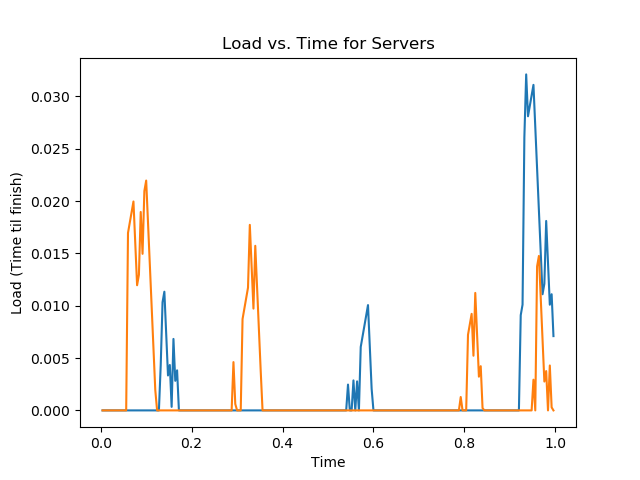
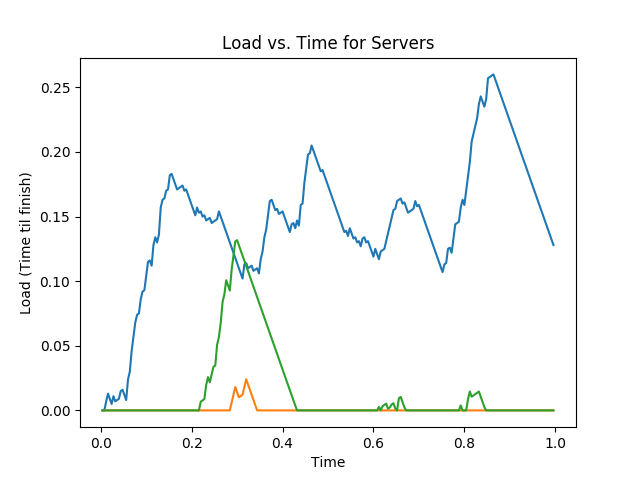
Started powersofx

diff --git a/main.py b/main.py
@@ -11,14 +11,14 @@ processing_time = 0.005 # time per packet
 '''
 
 # Packet generation variables
-num_flows = 8
+num_flows = 30
 mean_flow_size = 10
 flow_size_stdev = 2
 max_flow_duration = 0.05
 # Num clients, load balancers, servers
-num_clients = 4
+num_clients = 20
 num_load_balancers = 2
-num_servers = 2
+num_servers = 3
 # Server processing time, time per packet
 processing_time = 0.005
 
@@ -34,7 +34,7 @@ processing_time = 0.01 # time per packet
 '''
 
 
-assignment_methods = ["RandomAssignment", "ConsistentHashing", "PowersOfTwoNoMemory", "PowersOfTwoWithMemory"]
+assignment_methods = ["RandomAssignment", "ConsistentHashing", "PowersOfTwoNoMemory", "PowersOfTwoWithMemory", "PowersOfXWithMemory"]
 
 #class defining a client/host
 class Client:
@@ -47,14 +47,14 @@ class LoadBalancer:
 		self.id = address
 		self.connection_table = {}
 
-	def assign_server_random(self, packet, _):
+	def assign_server_random(self, packet, _1, _2):
 		packet_id = packet.clientid
 		return random.randint(0, num_servers - 1)
 
-	def assign_server_hashing(self, packet, _):
+	def assign_server_hashing(self, packet, _1, _2):
 		return hash(str(packet.clientid)) % num_servers
 
-	def assign_server_power_of_2_choices_no_memory(self, packet, servers):
+	def assign_server_power_of_2_choices_no_memory(self, packet, servers, _):
 
 		#pick 2 servers randomly
 		first_query_server = random.randint(0, num_servers - 1)
@@ -73,7 +73,7 @@ class LoadBalancer:
 			return first_query_server
 		return second_query_server
 
-	def assign_server_power_of_2_choices_with_memory(self, packet, servers):
+	def assign_server_power_of_2_choices_with_memory(self, packet, servers, _):
 		#check this is a new flow by checking client id 
 		if packet.clientid in self.connection_table:
 			return self.connection_table[packet.clientid]
@@ -96,6 +96,27 @@ class LoadBalancer:
 			return first_query_server
 		self.connection_table[packet.clientid] = second_query_server
 		return second_query_server
+
+
+
+	def assign_server_power_of_x_choices_with_memory(self, packet, servers, x):
+		#check this is a new flow by checking client id 
+		if packet.clientid in self.connection_table:
+			return self.connection_table[packet.clientid]
+
+		if x > num_servers:
+			print("Number of servers too low for power of " + str(x) + " choices.")
+			return
+
+		#pick x servers randomly
+		server_nums = random.sample(range(0, num_servers), x)
+		loads = []
+		for num in server_nums:
+			loads.append(servers[num].get_load(packet.time_sent))
+
+		min_load_server = loads.index(min(loads))
+		self.connection_table[packet.clientid] = min_load_server
+		return min_load_server
 
 	def __repr__(self):
 		return "Load Balancer id: " + str(self.id)	
@@ -229,10 +250,11 @@ def run_simulation(assignment_method):
 			"RandomAssignment": load_balancer.assign_server_random,  # No per-flow consistency :(
 			"ConsistentHashing": load_balancer.assign_server_hashing, # Per-flow consistency :)
 			"PowersOfTwoNoMemory": load_balancer.assign_server_power_of_2_choices_no_memory, # No Per-flow consistency :( + Congestion control :)
-			"PowersOfTwoWithMemory": load_balancer.assign_server_power_of_2_choices_with_memory # Per-flow consistency :) + Congestion control :) 
+			"PowersOfTwoWithMemory": load_balancer.assign_server_power_of_2_choices_with_memory, # Per-flow consistency :) + Congestion control :) 
+			"PowersOfXWithMemory": load_balancer.assign_server_power_of_x_choices_with_memory # Per-flow consistency :) + Congestion control :) 
 		}
 		func = switcher.get(assignment_method, lambda: "Invalid assignment method")
-		server_id = func(packet, servers)
+		server_id = func(packet, servers, 3)
 		server = servers[server_id]
 		server.add_packet(packet)
 		#print("Load Balancer " + str(lb_id) + " sent packet from client " + str(packet.clientid) + " to server " + str(server_id))
